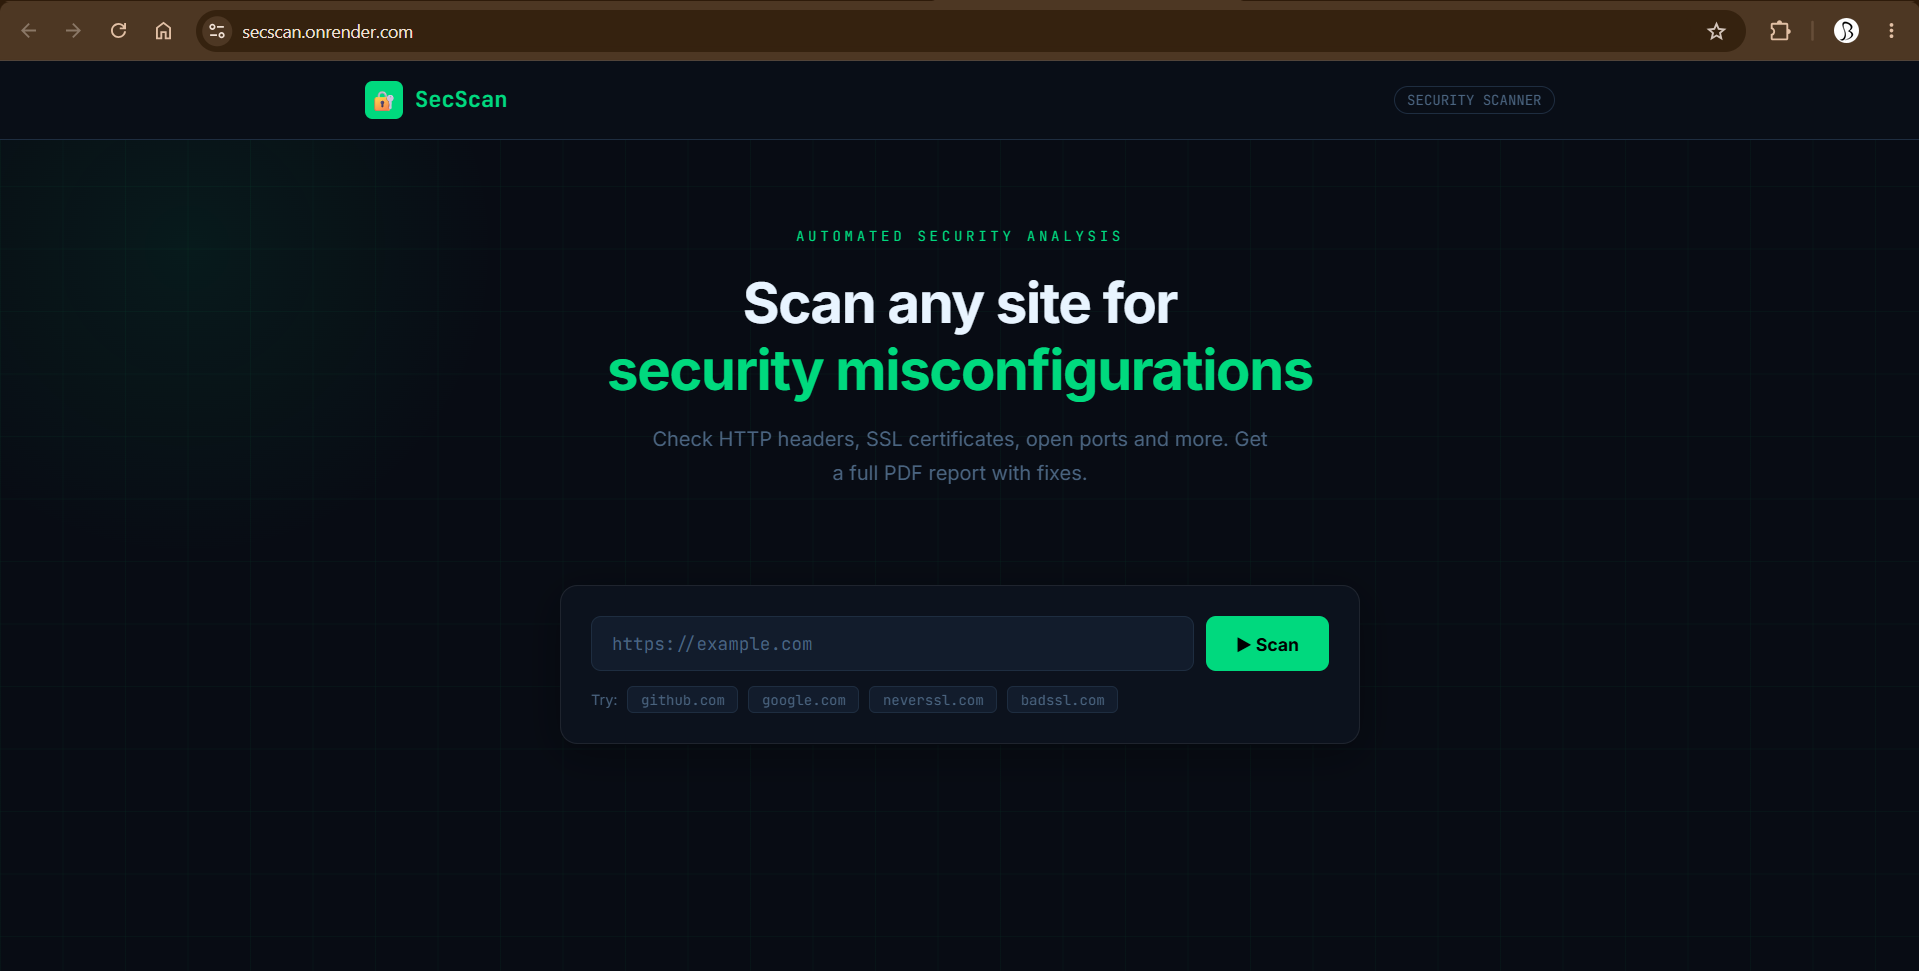
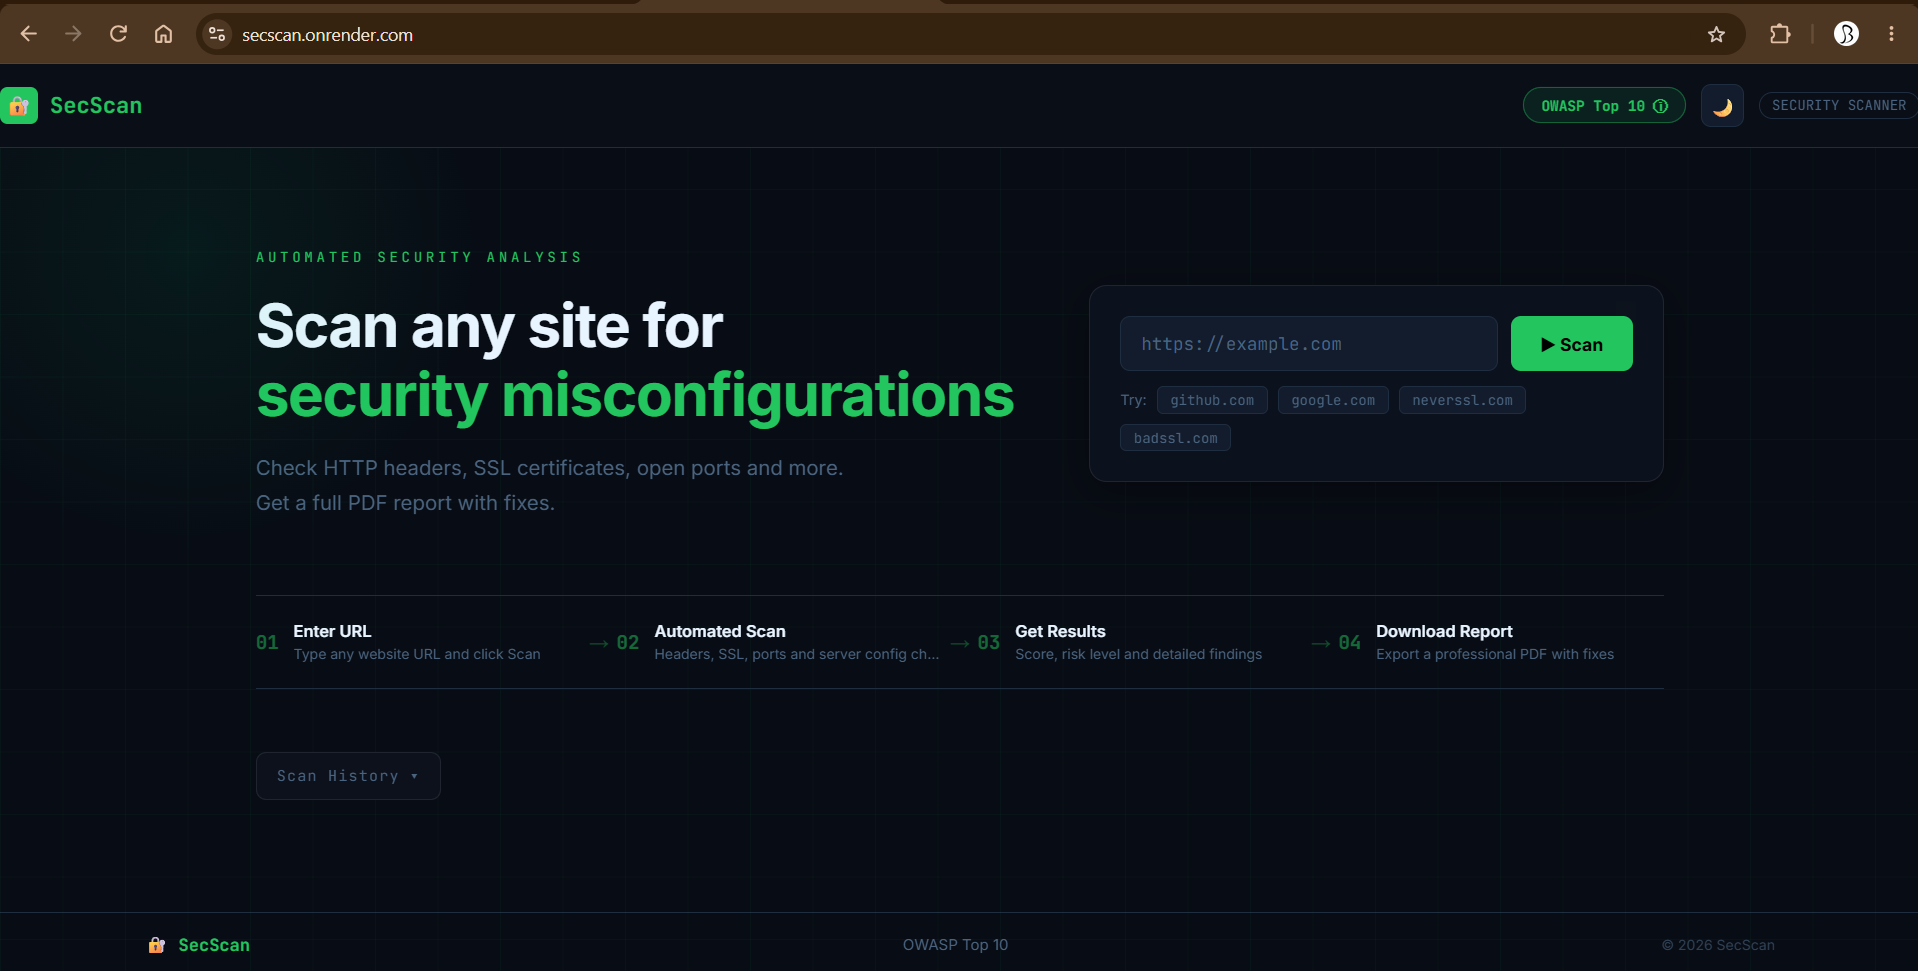
Update README with new screenshots and feature list

diff --git a/README.md b/README.md
@@ -1,4 +1,4 @@
-#  SecScan — Security Misconfiguration Scanner
+# 🔐 SecScan — Security Misconfiguration Scanner
 
 A full-stack web application built with Django that automatically scans websites for security misconfigurations, generates risk scores, and produces downloadable PDF reports with remediation steps.
 
@@ -6,64 +6,75 @@ A full-stack web application built with Django that automatically scans websites
 
 **[https://secscan.onrender.com](https://secscan.onrender.com)**
 
-> Note: First load may take 30–50 seconds on the free tier.
+> Note: First load may take 30–50 seconds on the free tier (cold start).
 
-##  Screenshots
+## Screenshots
 
 ### Homepage
 ![Homepage](scanner/screenshots/home.png)
 
-### Scan Results
+### Scan Results Dashboard
 ![Scan Results](scanner/screenshots/results.png)
 
 ### PDF Report
 ![PDF Report](scanner/screenshots/report.png)
 
-##  Features
+### OWASP Top 10 Reference
+![OWASP Top 10](scanner/screenshots/owasp.png)
+
+## Features
 
 | Feature | Description |
-|--------|-------------|
-|  HTTP Security Headers | Checks HSTS, CSP, X-Frame-Options, X-Content-Type-Options, Referrer-Policy, Permissions-Policy |
-|  HTTPS Redirect | Verifies HTTP traffic is properly redirected to HTTPS |
-|  SSL Certificate | Validates expiry, protocol version (TLS 1.2/1.3), cipher suite |
-|  Port Scanner | Detects dangerous exposed ports — MySQL, Redis, MongoDB, Telnet, FTP |
-|  Server Info Leakage | Finds headers that expose your tech stack to attackers |
-|  Security Score | Weighted 0–100 score with LOW / MEDIUM / HIGH / CRITICAL risk rating |
-|  PDF Reports | Professional downloadable reports with findings and fix recommendations |
-|  Scan History | Search and filter all past scans saved to database |
-|  Live Progress Bar | Real-time scanning steps shown during analysis |
-|  Severity Filter | Filter results by HIGH / MEDIUM / LOW severity |
+|---|---|
+| HTTP Security Headers | Checks HSTS, CSP, X-Frame-Options, X-Content-Type-Options, Referrer-Policy, Permissions-Policy |
+| HTTPS Redirect | Verifies HTTP traffic is properly redirected to HTTPS |
+| SSL Certificate | Validates expiry, protocol version (TLS 1.2/1.3) |
+| Port Scanner | Detects dangerous exposed ports — MySQL, Redis, MongoDB, Telnet, FTP — with a confirmation pass to avoid false positives |
+| Server Info Leakage | Finds headers that expose your tech stack to attackers |
+| Security Score | Weighted 0–100 score with LOW / MEDIUM / HIGH / CRITICAL risk rating |
+| Enterprise Detection | Flags major platforms (Google, GitHub, etc.) with a clear notice that a low score reflects public header compliance, not their actual security posture |
+| PDF Reports | Professional downloadable reports with findings, "why it matters," and fix recommendations |
+| Scan History | Collapsible dropdown with search/filter across all past scans |
+| OWASP Top 10 Reference | Built-in page mapping each OWASP risk category to what SecScan actually checks |
+| Live Progress Bar | Real-time scanning steps shown during analysis |
+| Severity Filter | Filter results by HIGH / MEDIUM / LOW severity |
+| Dark / Light Mode | Full theme toggle with saved preference |
+| Responsive Design | Two-column dashboard on desktop, stacked layout on mobile |
 
 ## Tech Stack
 
 - **Backend** — Django 6, Python 3.12
-- **Scanner Logic** — Python `requests`, `ssl`, `socket` libraries
+- **Scanner Logic** — Python `requests`, `ssl`, `socket` libraries, with retry logic for network reliability
 - **PDF Generation** — ReportLab
 - **Database** — SQLite (Django ORM)
-- **Frontend** — Vanilla HTML, CSS, JavaScript
+- **Frontend** — Vanilla HTML, CSS, JavaScript, Chart.js
+- **Deployment** — Render (Gunicorn + Whitenoise)
 
-##  Project Structure
-```
+## Project Structure
+
+```bash
 secscan/
-├── scanner/                    # Main Django app
-│   ├── templates/
-│   │   └── scanner/
-│   │       └── index.html      # Frontend UI
-│   ├── screenshots/            # Project screenshots
-│   ├── migrations/             # Database migrations
-│   ├── models.py               # ScanResult database model
-│   ├── security_checks.py      # Core scanning logic
-│   ├── report_generator.py     # PDF report generation
-│   ├── views.py                # API endpoints
-│   └── urls.py                 # URL routing
-├── secscan/                    # Django project config
-│   ├── settings.py
-│   └── urls.py
-├── build.sh                    # Render build script
+├── scanner/ 
+│ ├── templates/
+│ │ └── scanner/
+│ │ ├── index.html
+│ │ └── owasp.html 
+│ ├── screenshots/ 
+│ ├── migrations/ 
+│ ├── models.py 
+│ ├── security_checks.py 
+│ ├── report_generator.py 
+│ ├── views.py 
+│ └── urls.py 
+├── secscan/ 
+│ ├── settings.py
+│ └── urls.py
+├── build.sh 
 ├── requirements.txt
 └── manage.py
 ```
-##  Setup & Installation
+
+## Setup & Installation
 
 ```bash
 # Clone the repository
@@ -91,11 +102,12 @@ Visit **http://127.0.0.1:8000**
 
 1. User enters a URL and clicks Scan
 2. Django receives the request and calls `security_checks.py`
-3. Scanner makes real network requests using Python's `ssl`, `socket`, and `requests` libraries
-4. Each check returns pass/fail with severity level
+3. Scanner makes real network requests using Python's `ssl`, `socket`, and `requests` libraries — with retries on network checks to avoid transient failures skewing the score
+4. Each check returns pass/fail with a severity level
 5. Score is calculated — HIGH failure = −25pts, MEDIUM = −10pts, LOW = −5pts
-6. Results saved to database via Django ORM
-7. User can download a full PDF report
+6. Enterprise/major platforms are flagged separately so their score is interpreted correctly
+7. Results are saved to the database via Django ORM
+8. User can download a full PDF report or browse scan history
 
 ## Disclaimer
 
